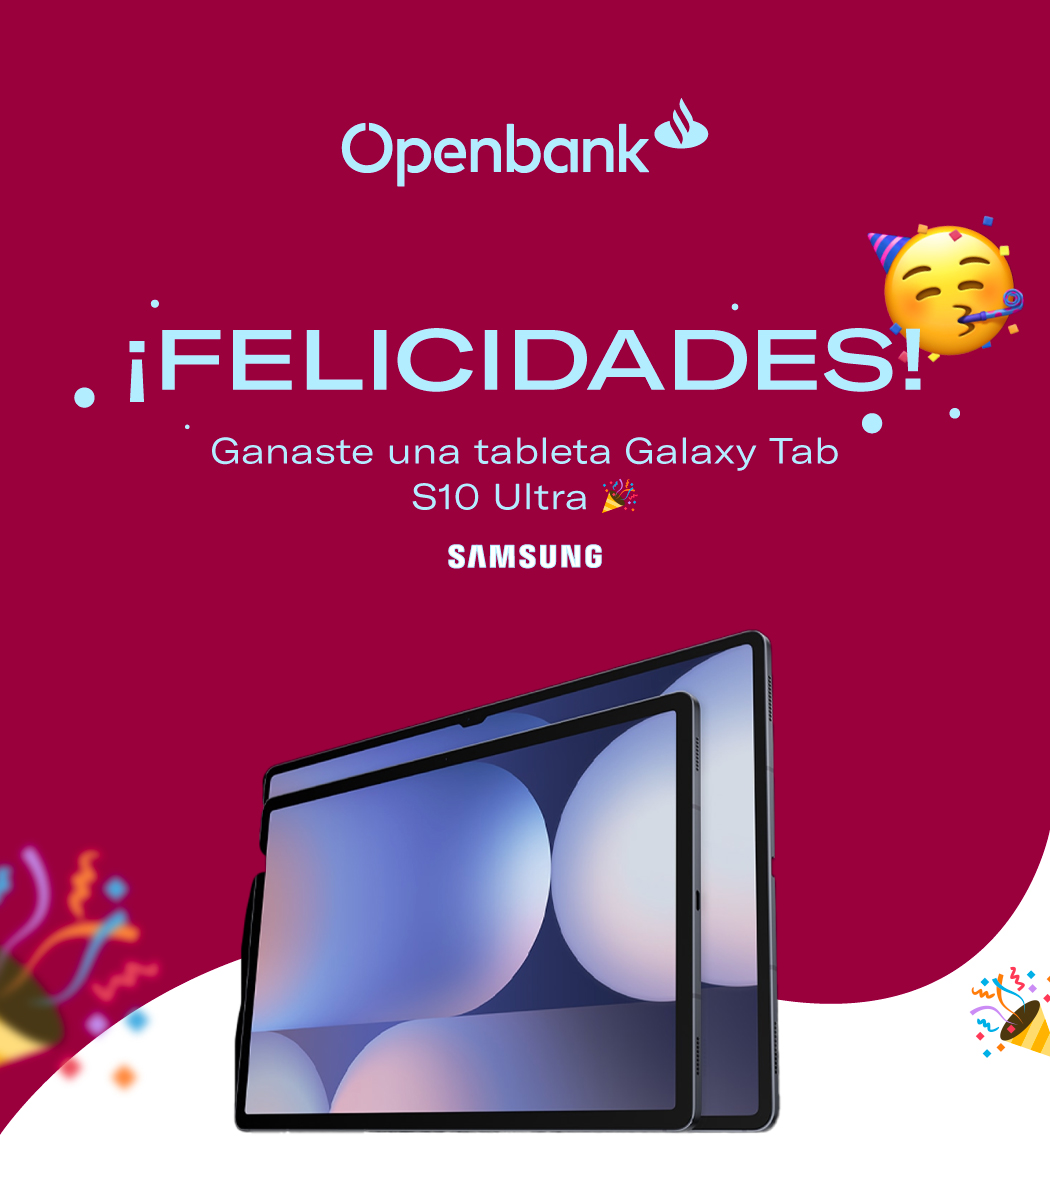
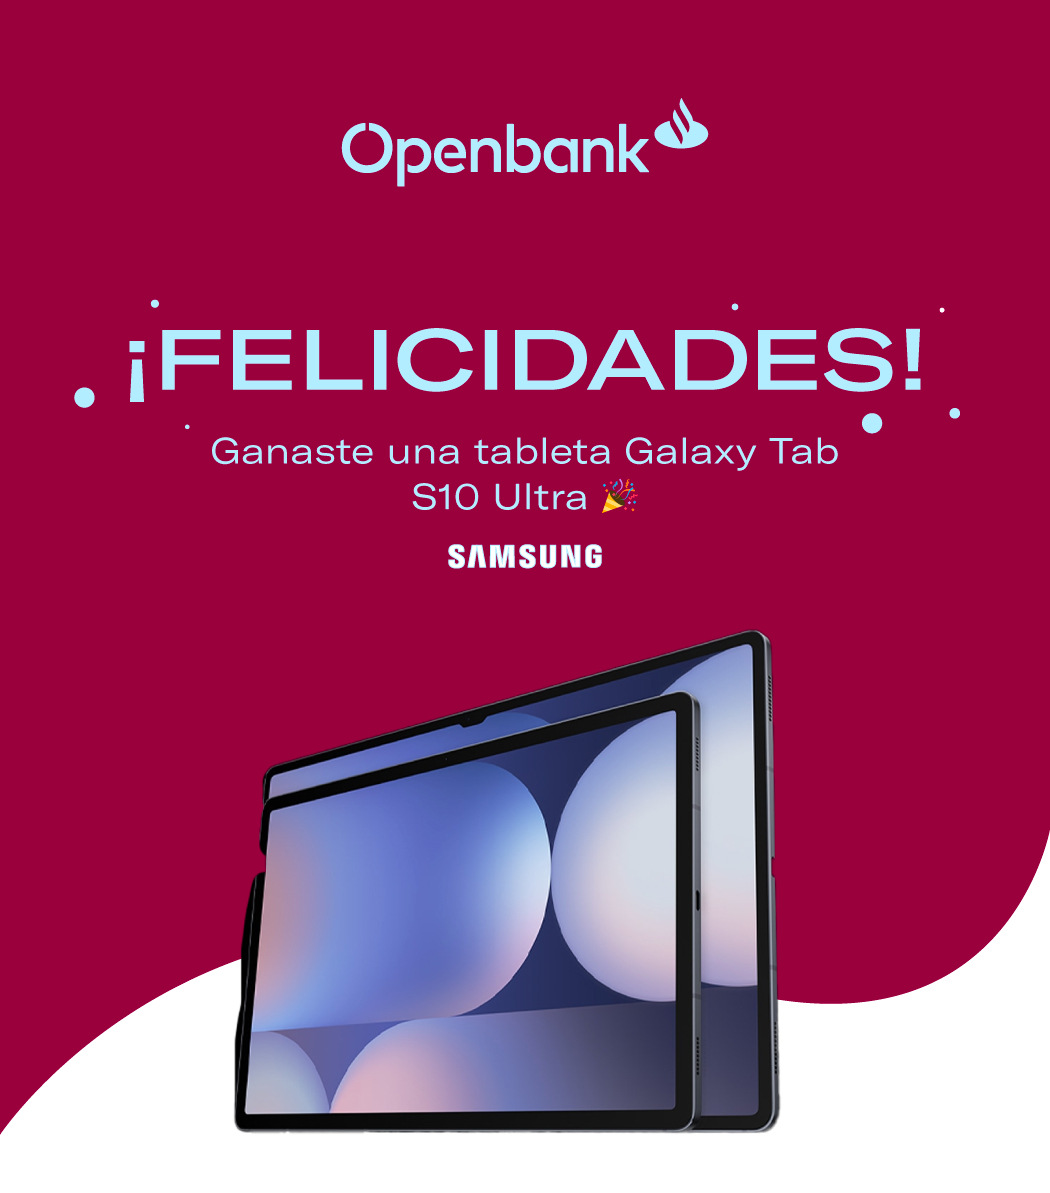
update

Changed region(s): [[0.0, 0.7133, 0.1524, 0.9304], [0.8229, 0.1861, 0.9752, 0.3101], [0.9143, 0.8064, 1.0, 0.8994]]

diff --git a/2025/06/07-HS1_FINAL_AJUSTADO/HS1_FINAL_AJUSTADO.html b/2025/06/07-HS1_FINAL_AJUSTADO/HS1_FINAL_AJUSTADO.html
@@ -488,7 +488,7 @@
               </td>
             </tr>
             <tr>
-                <td><img src="https://openbank-newsletter-q2k5.vercel.app/2025/06/07-HS1_FINAL_AJUSTADO/img/content.png" width="600" alt="" style="display:block;margin:0;"></td>
+                <td><img src="https://openbank-newsletter-q2k5.vercel.app/2025/06/07-HS1_FINAL_AJUSTADO/img/content.png" width="100%" alt="" style="display:block;margin:0;"></td>
             </tr>
             <tr>
                 <td><a href="#"><img src="https://openbank-newsletter-q2k5.vercel.app/2025/05/10-HS1_FINAL_AJUSTADO/img/boton.png" width="100%" alt="" style="display:block;margin:0;"></a></td>
